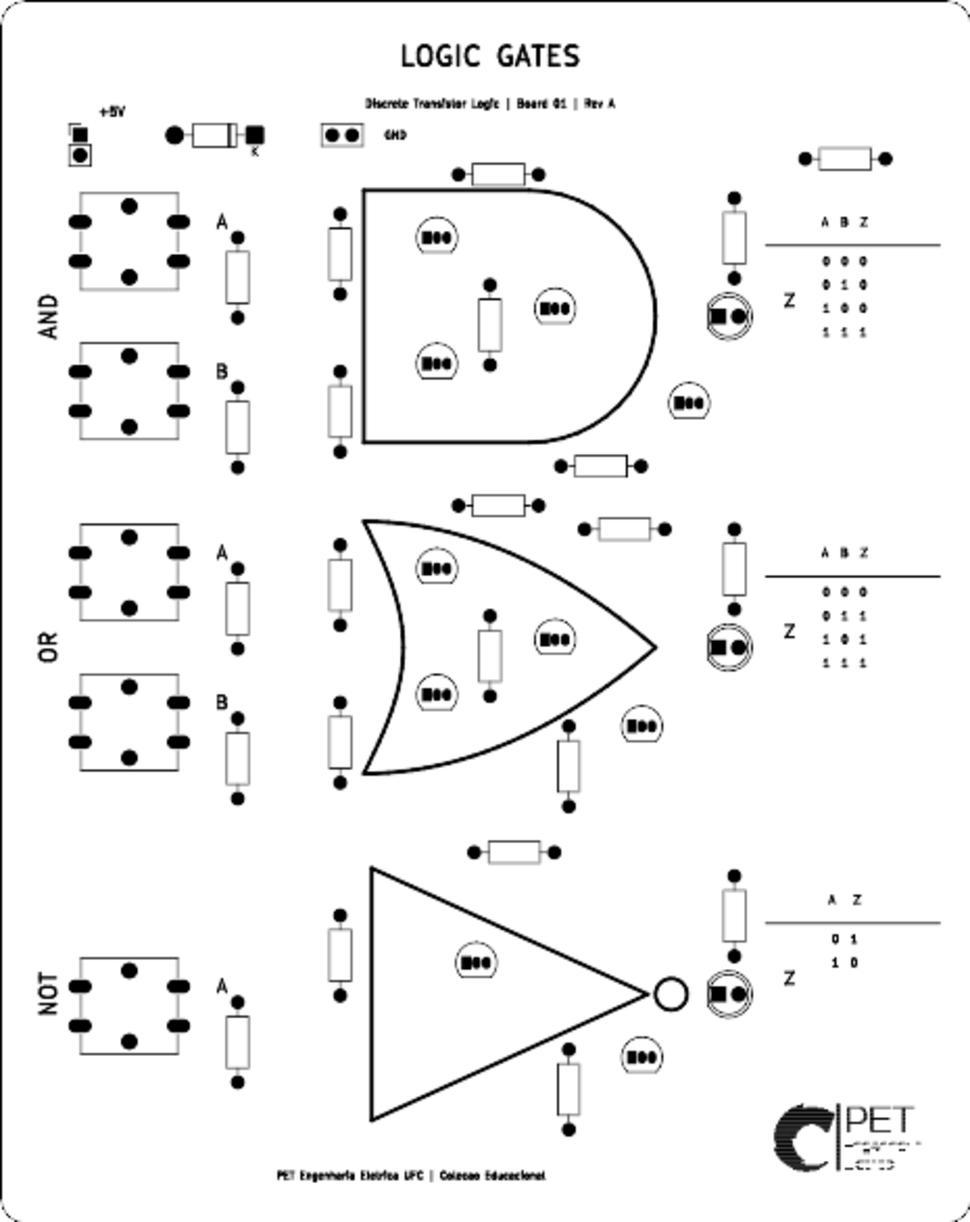
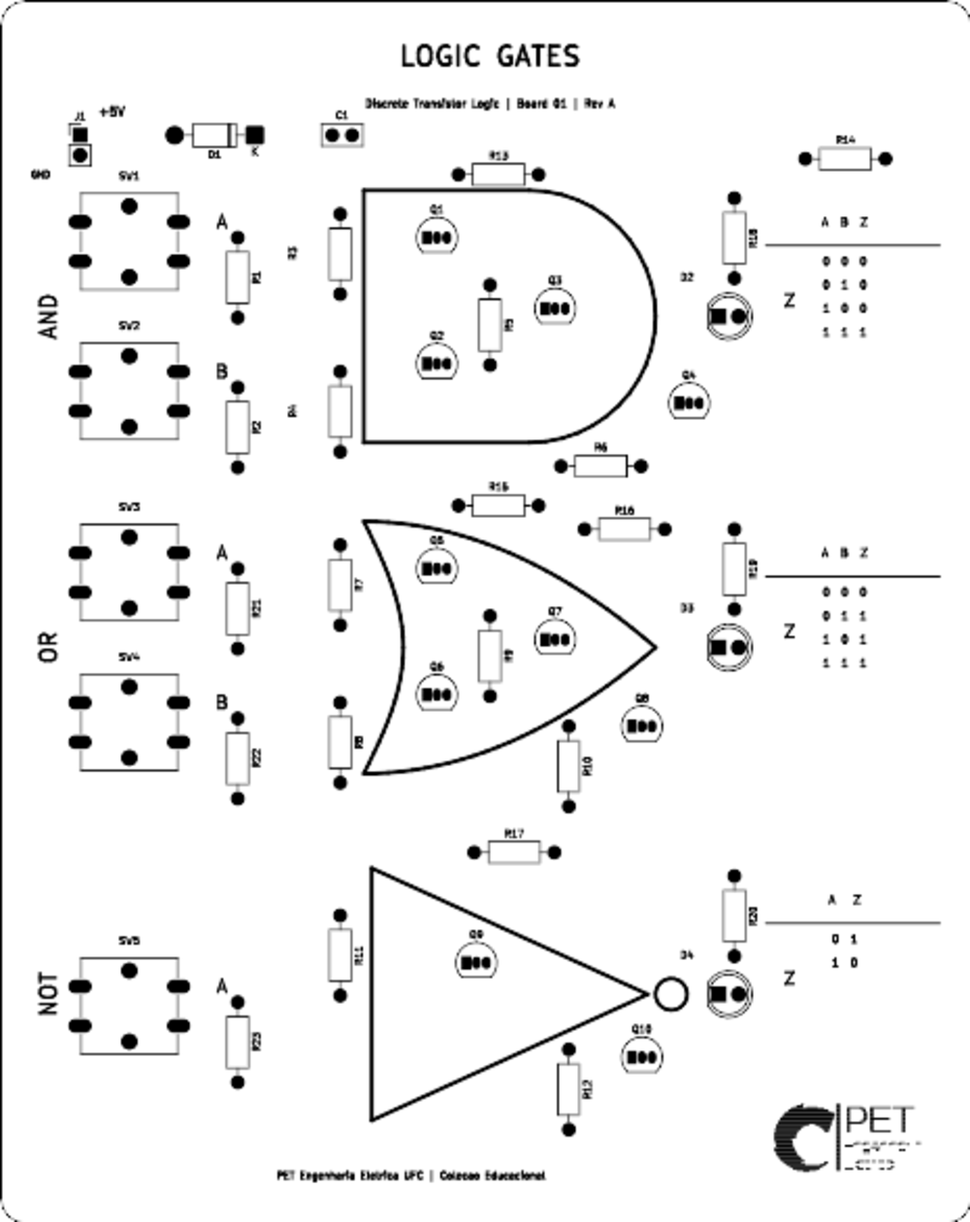
docs(pet-ufc): document assembly and update board previews

diff --git a/projects/pet-eletrica-ufc/scripts/render_board_previews.py b/projects/pet-eletrica-ufc/scripts/render_board_previews.py
@@ -11,6 +11,14 @@ run(['kicad-cli','pcb','export','svg','--mode-single','-l','F.SilkS,F.Mask,Edge.
      '--page-size-mode','2','--exclude-drawing-sheet','--black-and-white',
      '--output',str(SVG),str(OUT)],check=True)
 run(['convert','-background','white',str(SVG),'-resize','1000x',str(PNG)],check=True)
+SVG.unlink()
+back_svg=RENDERS/'01-logic-gates-back.svg'
+run(['kicad-cli','pcb','export','svg','--mode-single','-l','B.SilkS,B.Mask,Edge.Cuts',
+     '--page-size-mode','2','--exclude-drawing-sheet','--black-and-white','--mirror',
+     '--output',str(back_svg),str(OUT)],check=True)
+run(['convert','-background','white',str(back_svg),'-resize','1000x',
+     str(RENDERS/'01-logic-gates-back.png')],check=True)
+back_svg.unlink()
 source=Image.open(PNG).convert('RGBA')
 w,h=source.size
 canvas=Image.new('RGBA',(1320,930),(238,242,246,255))
@@ -74,4 +82,5 @@ for ref,(value,fp,x,y,angle,nets) in items.items():
 font=ImageFont.truetype('/usr/share/fonts/truetype/dejavu/DejaVuSans.ttf',19)
 draw.text((47,874),'Illustrative 3D preview from current KiCad PCB; component shapes are approximate.',font=font,fill=(48,57,67,255))
 canvas.convert('RGB').save(RENDERS/'01-logic-gates-3d-preview.png',quality=95)
+canvas.convert('RGB').save(RENDERS/'01-logic-gates-3d.png',quality=95)
 print('Saved 2D and illustrative 3D previews.')

diff --git a/projects/pet-eletrica-ufc/PROJECT_CONTEXT.md b/projects/pet-eletrica-ufc/PROJECT_CONTEXT.md
@@ -1,34 +1,35 @@
-# Contexto do projeto
+# Contexto do projeto PET Engenharia Elétrica UFC
 
-## Objetivo
-Criar hardware aberto, acessível e didático que permita experimentar blocos fundamentais de computadores digitais. A primeira placa agrupará AND, OR e NOT com entradas manuais, LEDs, símbolos e tabelas verdade.
+## Objetivo e estado
 
-## Situação e limites do ambiente
-- Em 2026-10-27, `git status` mostrou worktree limpo em `main`, acompanhando `origin/main`; o remoto configurado é `origin`.
-- SO: Debian GNU/Linux 13.7 Trixie, x86-64; Python 3.13.5.
-- KiCad, `kicad-cli` e `pcbnew` estão instalados e respondem na versão 9.0.2 (`kicad-cli version` e `pcbnew.GetBuildVersion()`). A interface gráfica não foi validada, pois não há `DISPLAY` nesta sessão.
-- O APT configurado oferece KiCad 9.0.2. A documentação oficial KiCad 10 confirma CLI para ERC/DRC/exportação e documentação de `pcbnew`; a versão 10 não está instalada aqui. Não misturar pacotes externos sem avaliar manutenção e compatibilidade.
-- No inventário inicial não havia fontes KiCad ou ativos visuais. Durante o trabalho apareceu `identity/logos/pet_logo.png` (272 × 182 px); o original foi preservado e copiado para `projects/pet-eletrica-ufc/assets/logos/`. Não há SVG/manual de marca. Nenhuma instalação adicional ou teste físico foi realizado.
+A placa 01 apresenta AND, OR e NOT por transistores discretos, com botões e LEDs. A revisão A foi desenvolvida no KiCad 9.0.2 instalado em 2026-10-27; KiCad 10 não estava disponível. O repositório guarda fontes editáveis, scripts determinísticos, relatórios e exports. Os resultados de ERC, DRC, paridade e simulação pertencem à revisão indicada e não representam teste físico.
 
-## Decisão de automação
-Arquitetura recomendada: híbrida. Scripts Python geram conteúdo repetitivo e mantêm parâmetros em uma fonte compacta; `kicad-cli` faz ERC/DRC, exporta fabricação e vistas; revisão gráfica humana/assistida ocorre em pontos de decisão visual. IPC/MCP é opcional para consultas ou edição interativa de uma sessão aberta, não a base do projeto.
+## Leitura da referência e geometria
 
-| Opção | Vantagens | Limitações | Tokens (estimativa, não medição) |
-|---|---|---|---|
-| Python + arquivos/CLI | Determinístico, em lote, baixo contexto e fácil de versionar | API pcbnew varia; esquemático exige geração/edição de S-expressions ou outras ferramentas | Baixo após scripts reutilizáveis |
-| Servidor MCP | Inspeção e edição contextual de KiCad aberto, chamadas semânticas | Maturidade e compatibilidade variáveis; chamadas numerosas podem aumentar contexto; não substitui revisão | Médio, depende da granularidade |
-| Agentic GUI | Bom para inspeção visual e correções pontuais | Frágil, lento, difícil reproduzir e caro em interações | Alto para tarefas repetitivas |
-| Híbrida | CLI/scripts cobrem trabalho em lote; GUI/MCP para inspeção excepcional | Exige disciplina de validação e compatibilidade explícita | Menor estimativa mantendo revisão |
+A fotografia fornecida foi preservada em `assets/reference/logic-gates-reference.png`. A placa da foto é vertical, com cantos arredondados, borda dupla fina, título no topo e três regiões separadas visualmente. Cada região tem botões à esquerda, um símbolo de porta grande no centro, LED `Z` e tabela-verdade à direita. AND ocupa o terço superior, OR o central e NOT o inferior. Os transistores aparecem dentro ou junto do símbolo, com resistores acima/abaixo. A marca PET substitui a identificação comercial da foto no rodapé da revisão.
 
-Não foi feita medição de tokens nem teste de MCP. O KiCad está disponível, mas nenhum servidor MCP foi instalado nem avaliado funcionalmente nesta sessão; não é necessário para a etapa inicial, pois CLI e Python local estão disponíveis. A CLI deve ser a interface determinística para verificações e exportações. Usar IPC/MCP apenas após selecionar uma tarefa interativa concreta e testar em cópia.
+Não há escala física na fotografia. Como aproximação, o contorno foi fixado em **123 × 155 mm**, cantos R3 mm, margens visuais de 5–8 mm. A faixa superior tem cerca de 20 mm; AND ocupa aproximadamente y=27–59 mm, OR y=69–101 mm e NOT y=113–145 mm. Os símbolos centrais se estendem aproximadamente de x=49 a 86 mm, cada tabela está em x=100–122 mm, e os botões ficam em x=13–25,5 mm. Essas dimensões são decisões de projeto, não medições da imagem.
 
-## Primeiro circuito: proposta a validar
-Topologia da placa: duas chaves momentâneas ativas em nível alto (A e B) comandam SN74HC08 (`Y_AND=A·B`), SN74HC32 (`Y_OR=A+B`) e SN74HC04 (`Y_NOT=¬A`), cada saída com LED indicador. Entradas usam pull-down de 10 kΩ; entradas de gates não usados estão ligadas a GND e suas saídas sem uso marcadas NC; cada CI tem capacitor local de 100 nF. Os três datasheets TI confirmam operação entre 2 e 6 V e opção PDIP-14 ([HC08](https://www.ti.com/lit/ds/symlink/sn74hc08.pdf), [HC32](https://www.ti.com/lit/ds/symlink/sn74hc32.pdf), [HC04](https://www.ti.com/lit/ds/symlink/sn74hc04.pdf)). LEDs Vishay TLHR5200 têm resistores série de 1,5 kΩ ±5%; com entrada de 5,0 V ±5%, corrente máxima em curto no LED é 5,25 V / 1,425 kΩ = 3,69 mA, abaixo dos 4 mA usados pela TI na caracterização do HC04 a VCC=4,5 V. A entrada é conector THT de dois pinos para fonte regulada de 5 V limitada em corrente, com 1N5819 em série para proteger contra inversão de polaridade. USB-C foi avaliado e rejeitado nesta revisão por exigir Rd separado em CC1/CC2 e proteção adicional em componente SMD difícil de soldar à mão; a opção THT atende melhor ao objetivo de montagem didática. O diodo não protege contra sobretensão sustentada nem substitui fusível.
+O PNG de marca recebido está em `assets/logos/pet_logo.png`, cópia preservada de `identity/logos/pet_logo.png`. A versão monocromática `assets/logos/pet_logo_silkscreen.svg` foi traçada a partir do PNG para F.Silkscreen. Não se recebeu SVG oficial ou manual de identidade: a forma básica da marca deriva da imagem fornecida, mas a conversão e a cor observada não constituem especificação oficial. Máscara branca e silk preta devem ser escolhidas no pedido da PCB.
 
-O esquemático KiCad foi gerado por `scripts/generate_schematic.py`. Em 2026-10-27, KiCad 9.0.2 exportou a netlist, passou ERC sem violações, e o script `scripts/check_logic_gates_netlist.py` confirmou os mapeamentos críticos. A PCB preliminar foi gerada com `scripts/generate_logic_gates_pcb.py`; seu relatório DRC registra zero violações geométricas e 54 pads ainda sem conexão. Portanto, o layout não está roteado nem fechado. O ERC cobre apenas regras interpretadas do esquemático; nenhuma validação elétrica de PCB ou teste físico foi feito.
+## Decisões elétricas
 
-## Identidade visual
-O PNG fornecido mostra a marca PET em azul índigo próximo de `#150077` sobre transparência. Esse valor foi amostrado da imagem, não confirmado por manual de marca. O PNG de origem permanece preservado; uma cópia para o projeto está em `assets/logos/`. Não há SVG nem especificação de cores oficial. A arte de serigrafia ainda não foi criada.
+| Bloco | Transistores | Função |
+|---|---|---|
+| AND | Q1–Q2 em série, Q3 inversor | NAND seguido de inversão; Q4 aciona D2 |
+| OR | Q5–Q6 em paralelo, Q7 inversor | NOR seguido de inversão; Q8 aciona D3 |
+| NOT | Q9 emissor comum | Inversão; Q10 aciona D4 |
 
-## Critério de liberação
-Não chamar o projeto de funcional/fabricável até haver projeto fonte, ERC/DRC reais, conferência elétrica independente, visualização 2D/3D, exports Gerber/drill revisados e BOM. Teste físico é etapa separada. No estado atual há um esquemático KiCad com ERC sem violações, BOM exportado e PCB preliminar sem violações geométricas, mas com 54 pads sem conexão. DRC sem violações geométricas não demonstra conectividade concluída. Não existem exports de fabricação e o teste físico não foi realizado.
+Os botões Omron B3F-4050 de 12 × 12 mm conectam cada entrada a `VCC` quando pressionados. Cinco resistores de 10 kΩ fazem pull-down. Outros dez resistores de 10 kΩ limitam corrente de base. Os cinco pull-ups dos nós NAND/NOR/saída valem **2,2 kΩ**: 10 kΩ deixaria a saída alta em aproximadamente metade de `VCC` por causa do resistor de base do próximo estágio. Com 2,2 kΩ e carga de base de 10 kΩ, o cálculo de primeira ordem dá `VH = (10k·VCC + 2,2k·VBE)/(12,2k)`. Para `VCC=4,3 V` e `VBE=0,65 V`, `VH≈3,64 V`. Com `VCC=5,05 V`, corrente máxima do pull-up saturado é `(5,05−0,2)/2,09k≈2,32 mA` considerando −5% no resistor. Corrente de base no estágio seguinte é da ordem de 0,28–0,35 mA, razão forçada inferior a 10 na condição calculada. Os limitadores de LED são 1,5 kΩ; a corrente simulada acesa é 1,84–2,17 mA na faixa de entrada analisada.
+
+O [datasheet onsemi 2N3904](https://www.onsemi.com/pdf/datasheet/2n3904-d.pdf) documenta pinos **1 E, 2 B, 3 C** e ponto de caracterização de saturação `IC=10 mA, IB=1 mA, VCE(sat)≤0,2 V`. O símbolo `Q_NPN_EBC` e o footprint `TO-92_Inline` foram escolhidos para corresponder a essa ordem. O [datasheet Vishay TLHR5200](https://www.vishay.com/docs/83011/tlhr5200.pdf) informa LED vermelho de 5 mm e `VF` típico de 2 V a 20 mA. O [datasheet Omron B3F](https://components.omron.com/us-en/datasheet_pdf/A070-E1.pdf) descreve B3F-4050 e a malha de furos de 12 × 12 mm. O [datasheet Diodes 1N5819](https://www.diodes.com/datasheet/download/1N5819.pdf) identifica o cátodo pela faixa. O 1N5819 foi posto em série com J1 para bloquear inversão de polaridade; C1=100 nF desacopla VCC. Não há proteção contra sobretensão sustentada nem fusível: alimentar somente com 5 V regulados e corrente limitada.
+
+USB-C foi considerado, mas a entrada THT de dois pinos foi escolhida pela montagem manual simples. Uma alimentação USB-C consumidora precisaria de `Rd` em CC1 e CC2 e de conector SMD. A escolha não implica que qualquer conector de dois pinos seja automaticamente à prova de erro: verificar polaridade de J1 antes de ligar.
+
+## Validação reproduzível
+
+`scripts/validate_logic_gates.sh` regenera fontes e BOM e executa ERC/DRC com KiCad 9.0.2. O resultado em 2026-10-27 foi 0 violações ERC, 0 violações DRC, 0 pads sem conexão, 0 erros de footprint e 0 problemas de paridade. `scripts/check_logic_gates_netlist.py` comparou 98 identidades de pin/pad e 44 valores/footprints da netlist exportada com a PCB e confirmou zona GND preenchida. Largura mínima de trilha é 0,35 mm, clearance mínimo de cobre é 0,20 mm, vias 0,8/0,4 mm e a placa tem duas camadas. Os pads de TO-92 padrão KiCad têm espaçamento nominal de 0,22 mm; o mínimo de 0,20 mm foi escolhido por causa desse footprint e precisa estar dentro da capacidade do fabricante selecionado.
+
+O ngspice 44.2 foi executado de pacote Debian extraído temporariamente sem instalação global. `scripts/simulate_logic_gates.py` usa modelos simplificados `BF=80`, diodo Schottky e LED aproximados. Em 4,75–5,25 V de entrada, o pior alto observado foi **3,837 V**, o pior baixo foi **0,058 V**, e o máximo de corrente nos LEDs acesos foi **2,171 mA**. Os doze pontos e tensões de coletor estão em `boards/01-logic-gates/reports/simulation.csv`. Foram adotados alto ≥3,5 V e baixo ≤0,4 V. Esses resultados não cobrem tolerâncias completas, envelhecimento, temperatura extrema, bounce dos botões ou cargas externas. Os LEDs têm drivers separados para limitar a carga nas saídas lógicas.
+
+Os Gerbers, drills, PDFs, BOM, GLB e STEP foram gerados pela CLI e estão em `boards/01-logic-gates/manufacturing/`. O modelo 3D dos botões é uma aproximação dimensional: o modelo B3F correspondente não está no pacote KiCad local; um modelo KiCad de botão de 6 mm foi escalado em X/Y para o corpo de 12 mm. A prévia PNG isométrica é ilustrativa, não captura do visualizador 3D. Não há `DISPLAY`/renderizador 3D interativo nesta sessão. A inspeção frontal e traseira foi feita pelas exportações SVG/PNG; a placa ainda precisa de revisão física do protótipo.

diff --git a/projects/pet-eletrica-ufc/boards/01-logic-gates/README.md b/projects/pet-eletrica-ufc/boards/01-logic-gates/README.md
@@ -1,28 +1,62 @@
-# Placa 01: Portas lógicas
+# Placa 01 — Portas lógicas com transistores discretos
 
-Status: esquemático KiCad gerado em `01-logic-gates.kicad_sch`; ERC executado no KiCad 9.0.2 com zero violações. A lista de materiais em [`BOM.csv`](BOM.csv) foi exportada do esquemático. Há um layout preliminar KiCad com footprints e contorno; o DRC geométrico reporta zero violações e 54 pads sem conexão. Roteamento, revisão física, imagens 3D e fabricação continuam pendentes.
+Placa didática do PET Engenharia Elétrica UFC com portas **AND, OR e NOT** construídas somente com transistores 2N3904. Cada porta tem entradas por botões independentes, saída elétrica acessível nos pads do circuito e LED indicador. O projeto nativo KiCad é editável; as imagens abaixo mostram a revisão A.
 
-## Função planejada
+![Vista frontal da PCB](renders/01-logic-gates-2d.png)
 
-Dois botões momentâneos produzem sinais ativos em nível alto `A` e `B`. Três saídas independentes são exibidas por LEDs:
+[Vista traseira](renders/01-logic-gates-back.png) · [Prévia 3D ilustrativa](renders/01-logic-gates-3d-preview.png) · [Fotografia de referência](../../assets/reference/logic-gates-reference.png) · [Esquemático PDF](manufacturing/schematic.pdf)
 
-| Saída | Função | Entradas |
-|---|---|---|
-| `Y_AND` | AND | `A`, `B` |
-| `Y_OR` | OR | `A`, `B` |
-| `Y_NOT` | NOT | `A` |
+## Estado de engenharia
 
-Cada entrada terá resistor de pull-down para garantir nível baixo com o botão solto. A implementação preliminar usa SN74HC08, SN74HC32 e SN74HC04 em DIP-14, com as entradas dos gates não utilizados fixadas em GND e capacitor cerâmico de desacoplamento junto a cada CI. A entrada de alimentação escolhida é um conector THT de dois pinos para 5 V regulados, seguido por um diodo Schottky 1N5819 em série para evitar danos por inversão de polaridade. Exigir fonte regulada com limitação de corrente; a placa não terá proteção para sobretensão sustentada. Corrente dos LEDs será limitada individualmente e mantida abaixo de 4 mA por saída.
+- KiCad 9.0.2: ERC **0 violações**, DRC **0 violações**, **0 pads sem conexão** e **0 problemas de paridade esquemático/PCB**. Relatórios em `reports/` e `manufacturing/`.
+- Comparação independente da netlist com a PCB: **98 identidades de pino/pad e 44 valores/footprints conferidos**, incluindo polaridade do diodo e LEDs e ordem E-B-C do 2N3904.
+- ngspice 44.2: **12 pontos DC** (quatro combinações de botões em 4,75, 5,00 e 5,25 V) passaram os limites adotados. O modelo de transistor/LED é simplificado e não substitui medições de protótipo.
+- **Nenhuma placa física foi fabricada, montada ou medida.** A revisão A é candidata a protótipo. Conferir componentes reais e prévia do fabricante antes de encomendar.
 
-Os três componentes lógicos aceitam 2–6 V e possuem encapsulamento PDIP-14 segundo as folhas de dados da [TI para SN74HC08](https://www.ti.com/lit/ds/symlink/sn74hc08.pdf), [SN74HC32](https://www.ti.com/lit/ds/symlink/sn74hc32.pdf) e [SN74HC04](https://www.ti.com/lit/ds/symlink/sn74hc04.pdf). A folha do HC04 especifica níveis de saída a 4 mA com VCC=4,5 V. Cada LED TLHR5200 tem resistor de 1,5 kΩ ±5%; com entrada limitada a 5,25 V no pior caso, até um LED em curto ficaria limitado a 5,25 V / 1,425 kΩ = 3,69 mA, abaixo dos 4 mA usados na caracterização do HC04. Em uso normal, a queda direta do LED reduz ainda mais essa corrente. A [folha TLHR5200 da Vishay](https://www.vishay.com/docs/83011/tlhr5200.pdf) especifica LED vermelho de 5 mm, com Vf típico de 2 V a 20 mA; 1,5 kΩ dá corrente típica estimada de até 2,2 mA sem considerar a queda no diodo de entrada.
+## Uso e alimentação
 
-A alternativa USB-C foi avaliada: um sink reversível requer resistores `Rd` independentes em CC1 e CC2, e a proteção de sobretensão exigiria componente SMD de soldagem menos acessível; a placa didática prioriza entrada THT polarizada. O [USB-IF Type-C Specification, Release 2.0](https://www.usb.org/sites/default/files/USB%20Type-C%20Spec%20R2.0%20-%20August%202019.pdf) descreve esses requisitos de CC e também exige que o sink respeite a corrente anunciada pela fonte. As chaves são Omron B3F-4050 em footprints B3F THT; o diodo 1N5819 THT protege contra polaridade invertida. A entrada deve ser 5,0 V regulada (4,75–5,25 V) e limitada em corrente; essa placa não protege de sobretensão sustentada.
+Conecte **5 V regulados** em `J1`, pino 1 `+5V` e pino 2 `GND`, com limite de corrente de aproximadamente 100 mA na primeira energização. `D1` (1N5819) está em série para bloquear polaridade invertida; `C1` (100 nF) desacopla a alimentação após o diodo. O circuito não tolera sobretensão sustentada. A entrada de dois pinos foi escolhida pela montagem THT simples e pelo custo; USB-C exigiria receptáculo SMD e resistores `Rd` em CC1 e CC2. Uma fonte USB de 5 V pode ser usada com adaptador polarizado verificado, sem depender de fonte com tensão incomum.
 
-## Pendências de engenharia
+Cada botão fecha a respectiva entrada em `VCC`. Solto, um resistor de 10 kΩ a leva a GND. `SW1/SW2` comandam AND, `SW3/SW4` comandam OR e `SW5` comanda NOT. Os LEDs acendem quando a função vale 1.
 
-- Confirmar disponibilidade local dos part numbers especificados e fechar a versão final de passivos e conector THT.
-- A alimentação aceita somente 5 V regulados de fonte com limitação de corrente. O diodo em série protege inversão de polaridade; ele não substitui fusível nem proteção contra sobretensão sustentada.
-- Revisar conectividade e footprints na PCB, definir contorno e roteamento, executar DRC, produzir renderizações 2D/3D e revisar exports Gerber/drill.
-- Os relatórios estão em [`reports/ERC.rpt`](reports/ERC.rpt) e [`reports/DRC.rpt`](reports/DRC.rpt). O ERC confirma as regras elétricas interpretadas do esquemático. O DRC sem violações geométricas não elimina os 54 pads ainda sem conexão. Não há roteamento concluído, Gerbers, arquivos de furação ou teste físico.
+| A | B | AND | OR | NOT A |
+|---:|---:|---:|---:|---:|
+| 0 | 0 | 0 | 0 | 1 |
+| 0 | 1 | 0 | 1 | 1 |
+| 1 | 0 | 0 | 1 | 0 |
+| 1 | 1 | 1 | 1 | 0 |
 
-Ver decisões elétricas e limites gerais em [`../../PROJECT_CONTEXT.md`](../../PROJECT_CONTEXT.md).
+Os sinais `A_AND`, `B_AND`, `A_OR`, `B_OR` e `A_NOT` são independentes; a tabela combina valores iguais por conveniência didática. Soltar todos os botões equivale à primeira linha.
+
+## Circuito e dimensionamento
+
+`Q1/Q2` em série formam `N_AND`, invertido por `Q3` em `Y_AND`. `Q5/Q6` em paralelo formam `N_OR`, invertido por `Q7` em `Y_OR`. `Q9` é o inversor de emissor comum para `Y_NOT`. `Q4`, `Q8` e `Q10` acionam os LEDs sem colocar sua corrente diretamente nas saídas lógicas. `R13`–`R17` de 2,2 kΩ elevam as saídas; `R3`–`R12` de 10 kΩ limitam corrente de base; `R18`–`R20` de 1,5 kΩ limitam LED. A saída alta carregada pelo resistor de base seguinte é cerca de 4,04 V a 5,00 V de entrada na simulação; a baixa é cerca de 0,05–0,06 V. Os limites didáticos definidos são **baixo ≤0,4 V** e **alto ≥3,5 V**, válidos somente para esta topologia e carga prevista.
+
+A [folha do 2N3904 da onsemi](https://www.onsemi.com/pdf/datasheet/2n3904-d.pdf) especifica a ordem **1 emissor, 2 base, 3 coletor** e `VCE(sat)` máximo de 0,2 V em `IC=10 mA, IB=1 mA`. Aqui o coletor dos inversores recebe no máximo cerca de 2,4 mA e a corrente de base calculada supera aproximadamente 0,28 mA no pior caso analisado. A razão forçada fica abaixo de 10. Esse cálculo é uma margem de projeto, não uma garantia de pior caso para todos os lotes e temperaturas. A [folha do LED TLHR5200](https://www.vishay.com/docs/83011/tlhr5200.pdf) informa `VF` típico de 2 V a 20 mA; a simulação usa um modelo de LED aproximado e indica 1,84–2,17 mA quando aceso. Em curto no LED, o resistor de 1,5 kΩ ainda limita a corrente nominal a menos de 3,7 mA com 5,25 V de entrada e tolerância de −5% do resistor.
+
+A correspondência física `Q_NPN_EBC` ↔ `TO-92_Inline` foi conferida explicitamente. Ver mais hipóteses e cálculos em [PROJECT_CONTEXT.md](../../PROJECT_CONTEXT.md).
+
+## Geometria e serigrafia
+
+Contorno de aproximadamente **123 × 155 mm**, duas camadas, cantos de raio 3 mm. A fotografia não permite extrair medidas precisas; esta revisão preserva sua proporção vertical, os cinco botões à esquerda, os símbolos grandes no centro e LEDs/tabelas à direita. A serigrafia inclui a marca PET derivada do PNG fornecido, título, função dos blocos e revisão. O SVG original de identidade não foi fornecido; o traçado monocromático é uma adaptação para serigrafia, não uma reconstrução de manual de marca.
+
+Solicitar ao fabricante **máscara branca e serigrafia preta**: os Gerbers não codificam cores. O acabamento e contraste precisam ser confirmados na prévia do fabricante. Não há furos de fixação nesta revisão para preservar área útil e fidelidade à referência.
+
+## Montagem e teste com multímetro
+
+1. Separe os componentes conforme [BOM.csv](manufacturing/BOM.csv). Confirme a pinagem **E-B-C** do lote de 2N3904 escolhido e o corpo de 12 × 12 mm dos botões Omron B3F-4050.
+2. Solde resistores, diodo, capacitor, transistores, botões, LEDs e conector nessa ordem. Alinhe a faixa de `D1` ao cátodo e o lado chato/cátodo dos LEDs ao pad 1. Não confunda os diodos `D1` e `D2`–`D4`.
+3. Com a placa desligada, meça continuidade de GND e ausência de curto entre `+5V` e GND. Inspecione pontes de solda, especialmente nos três pads próximos de cada TO-92.
+4. Energize com 5,0 V e limite inicial de aproximadamente 100 mA. Meça `VCC` depois de `D1`, depois as entradas soltas (próximas de 0 V) e pressionadas (próximas de `VCC`).
+5. Para cada bloco, pressione as combinações da tabela. Meça `Y_AND`, `Y_OR`, `Y_NOT` e compare com ≤0,4 V / ≥3,5 V; confira se o LED correspondente segue a saída. Um LED apagado não substitui a medida do nó lógico.
+6. Desligue imediatamente se houver aquecimento, consumo inesperado ou saída fora da faixa. Anote tensão de alimentação, tensões de saída e corrente antes de concluir o ensaio físico.
+
+## Arquivos e reprodução
+
+- `01-logic-gates.kicad_sch`, `.kicad_pcb`, `.kicad_pro`: fontes nativas.
+- `../../scripts/validate_logic_gates.sh`: gera as fontes, executa ERC, DRC, paridade, comparação da netlist e BOM.
+- `../../scripts/simulate_logic_gates.py`: DC no ngspice com modelos simplificados; resultados em `reports/simulation.csv`.
+- `../../scripts/render_board_previews.py`: usa KiCad CLI, ImageMagick `convert` e Pillow para gerar vistas 2D diretamente da PCB e uma prévia isométrica **ilustrativa**. Os modelos de componentes desenhados nesta imagem são aproximados.
+- `../../scripts/export_logic_gates.sh`: repete validação e exporta [manufacturing/](manufacturing/). O modelo STEP/GLB usa o modelo 3D KiCad disponível para cada footprint; os botões usam um modelo de 6 mm escalado para representar o corpo 12 × 12 mm, portanto a geometria 3D deles é apenas aproximada.
+
+O guia de aula e exercícios está em [logic-gates-lab.md](../../docs/logic-gates-lab.md). As pendências da revisão estão em [manufacturing/README.md](manufacturing/README.md).

diff --git a/projects/pet-eletrica-ufc/docs/logic-gates-lab.md b/projects/pet-eletrica-ufc/docs/logic-gates-lab.md
@@ -1,23 +1,65 @@
-# Experimento: portas AND, OR e NOT
+# Aula prática — portas lógicas com transistores discretos
 
 ## Objetivo
-Observar como níveis lógicos nas entradas determinam a saída de portas AND, OR e NOT.
 
-## Tabelas-verdade
+Relacionar corrente de base e saturação dos BJTs aos estados das portas AND, OR e NOT. Cada porta tem botões próprios. A placa usa 5 V regulados e sinaliza cada saída com LED vermelho.
 
-AND: 00→0, 01→0, 10→0, 11→1.  
-OR: 00→0, 01→1, 10→1, 11→1.  
-NOT: 0→1, 1→0.
+## Antes de energizar
 
-## Entradas e saídas da placa
-Os botões A e B são momentâneos e ativos em nível alto. Soltar os botões deve produzir nível lógico 0 por meio dos resistores de pull-down. As saídas planejadas são `Y_AND = A·B`, `Y_OR = A+B` e `Y_NOT = ¬A`, cada uma com LED indicador. O botão B não altera `Y_NOT`.
+Consulte o [esquemático](../boards/01-logic-gates/manufacturing/schematic.pdf) e a [lista de materiais](../boards/01-logic-gates/manufacturing/BOM.csv). Identifique `J1` pino 1 `+5V`, pino 2 `GND`; diodo `D1` (faixa no cátodo); LEDs `D2`–`D4` (pad 1 cátodo); e transistores `Q1`–`Q10` (pinos 1 emissor, 2 base, 3 coletor para o 2N3904 escolhido). Verifique as folhas do lote adquirido antes da soldagem.
 
-## Procedimento previsto
-Com a placa desligada, inspecione polaridades e conexões. Conecte uma fonte regulada e limitada em corrente de 5 V à entrada identificada, respeitando a polaridade. Aplique cada combinação de entradas e registre os LEDs. Compare com as tabelas e discuta entradas flutuantes e inversão lógica. Este procedimento só deve ser executado após revisão do projeto e montagem física.
+Meça continuidade em GND e ausência de curto entre alimentação e retorno. Use fonte de 5 V regulados com limite inicial de corrente em torno de 100 mA. Se o limite atuar, desligue e procure erro de montagem. A placa não suporta sobretensão sustentada.
 
-Este roteiro é preliminar: a placa ainda não foi desenhada, validada, fabricada ou montada.
+## Princípio
+
+Um botão solto deixa a entrada em 0 por pull-down de 10 kΩ. Ao pressioná-lo, ela vai a `VCC`. Q1/Q2 fazem NAND, Q5/Q6 fazem NOR; Q3 e Q7 invertem esses nós para obter AND e OR. Q9 realiza NOT diretamente. Q4, Q8 e Q10 acionam LEDs sem carregar diretamente as saídas de lógica. O valor 2,2 kΩ dos pull-ups mantém alto mesmo com a corrente de base do próximo estágio.
+
+## Tabelas esperadas
+
+| A_AND | B_AND | Y_AND | LED D2 |
+|---:|---:|---:|---|
+| 0 | 0 | 0 | apagado |
+| 0 | 1 | 0 | apagado |
+| 1 | 0 | 0 | apagado |
+| 1 | 1 | 1 | aceso |
+
+| A_OR | B_OR | Y_OR | LED D3 |
+|---:|---:|---:|---|
+| 0 | 0 | 0 | apagado |
+| 0 | 1 | 1 | aceso |
+| 1 | 0 | 1 | aceso |
+| 1 | 1 | 1 | aceso |
+
+| A_NOT | Y_NOT | LED D4 |
+|---:|---:|---|
+| 0 | 1 | aceso |
+| 1 | 0 | apagado |
+
+Na simulação simplificada, para 4,75–5,25 V em J1, as saídas baixas ficaram até 0,058 V e as altas a partir de 3,837 V. Use como critério didático medido **baixo ≤0,4 V** e **alto ≥3,5 V**. Os valores de simulação não são medições de uma placa física.
+
+## Procedimento
+
+1. Com todas as entradas soltas, meça a tensão em `VCC` após D1 e em cada entrada. As entradas devem estar próximas de 0 V; AND/OR apagados e NOT aceso.
+2. Na região AND, pressione `SW1` e `SW2` em todas as quatro combinações. Em cada uma, meça `Y_AND` no **pad 2 de R14** com o multímetro e anote o LED D2. Solte os botões entre medições.
+3. Repita com `SW3` e `SW4` para OR; meça `Y_OR` no **pad 2 de R16** e observe D3.
+4. Meça `Y_NOT` no **pad 2 de R17** e observe D4 com `SW5` solto e pressionado. Confirme que os botões de outras regiões não alteram `Y_NOT`. Use ponta fina para não unir dois pads vizinhos.
+5. Se houver discrepância, registre a tensão nos nós `N_AND` ou `N_OR`, as entradas, a saída e o estado do LED. Desligue a fonte antes de tocar nas soldas.
+
+Modelo de registro:
+
+| VIN (V) | Porta | A (V) | B (V) | Z (V) | LED | Esperado | Observação |
+|---:|---|---:|---:|---:|---|---:|---|
+| | AND | | | | | | |
+| | OR | | | | | | |
+| | NOT | | — | | | | |
 
 ## Exercícios
-1. Explique por que uma entrada não pode ficar desconectada.
-2. Construa a tabela de uma NAND a partir de AND e NOT.
-3. Proponha uma combinação de portas que implemente XOR.
+
+1. Explique por que os resistores de entrada evitam estados indefinidos.
+2. Derive a tabela NAND de Q1/Q2 e mostre por que Q3 produz AND.
+3. Compare NOR e OR para as quatro combinações.
+4. Calcule a corrente aproximada de um pull-up de 2,2 kΩ quando seu transistor está saturado.
+5. Explique por que o LED possui transistor próprio e o que ocorreria se fosse ligado diretamente ao nó lógico com um resistor pequeno.
+6. Proponha um circuito para reduzir o bounce do botão se a placa fosse usada como entrada de um contador.
+
+**Estado do laboratório:** ensaio físico ainda não realizado. ERC, DRC e simulação DC estão registrados, mas os valores de medição devem ser preenchidos após montagem do protótipo.

diff --git a/projects/pet-eletrica-ufc/identity/README.md b/projects/pet-eletrica-ufc/identity/README.md
@@ -1,7 +1,5 @@
 # Identidade PET
 
-# Identidade PET
+O PNG transparente fornecido para o projeto está preservado em [`../assets/logos/pet_logo.png`](../assets/logos/pet_logo.png) (272 × 182 px). A cor índigo próxima de `#150077` é uma amostra da imagem, não uma paleta institucional confirmada por manual de marca.
 
-O worktree contém um logotipo raster fornecido como `identity/logos/pet_logo.png`; uma cópia de trabalho está em [`../assets/logos/pet_logo.png`](../assets/logos/pet_logo.png). O arquivo é PNG transparente, 272 × 182 px. A cor dominante observada na marca é azul índigo próximo de `#150077`; considerar esse valor uma amostra do arquivo, não uma paleta oficial especificada. Não há SVG nem manual de marca fornecido.
-
-Para serigrafia PCB, preservar proporções e usar versão vetorial monocromática derivada somente após aprovação visual. A representação em serigrafia não reproduz cor; reservar o azul para identidade documental/visual da placa. Não modificar nem substituir o PNG de origem.
+A adaptação monocromática [`../assets/logos/pet_logo_silkscreen.svg`](../assets/logos/pet_logo_silkscreen.svg) foi traçada do PNG para a serigrafia da placa 01. Ela mantém a proporção da área visível e foi verificada na vista frontal exportada, mas **não é um SVG oficial**. Não foi fornecido manual de marca nem um original vetorial. Preserve o PNG de origem ao revisar a arte; a serigrafia depende da cor escolhida pelo fabricante, e os Gerbers não especificam branco/preto.

diff --git a/docs/automation.md b/docs/automation.md
@@ -14,7 +14,7 @@ MCP/IPC não é dependência inicial: a CLI e `pcbnew` estão disponíveis local
 - `kicad-cli version`: 9.0.2.
 - `pcbnew.GetBuildVersion()`: 9.0.2+dfsg-1.
 - O pacote Debian configurado oferece 9.0.2; não se misturaram repositórios ou pacotes externos para instalar KiCad 10.
-- `kicad-cli --help` confirmou os grupos `sch`, `pcb`, `fp`, `sym` e `jobset`; `sch` lista `erc`/`export`, `pcb` lista `drc`/`export`/`render`. O esquemático da placa 01 foi exportado como netlist e passou ERC com zero violações; ainda não existe PCB para validar por DRC.
+- `kicad-cli --help` confirmou os grupos `sch`, `pcb`, `fp`, `sym` e `jobset`; `sch` lista `erc`/`export` e `pcb` lista `drc`/`export`. A revisão A da placa 01, agora com transistores discretos, passou ERC, DRC e paridade esquemático/PCB sem violações nem pads abertos. `projects/pet-eletrica-ufc/scripts/validate_logic_gates.sh` reproduz geração, netlist, ERC, DRC e BOM; `export_logic_gates.sh` produz os arquivos de fabricação. O teste físico ainda está pendente.
 - A invocação da interface `kicad --version` sem `DISPLAY` falhou ao inicializar GTK e não é considerada verificação da GUI.
 
 Repetir o levantamento com `shared/scripts/environment_report.sh`. As versões podem mudar; registrar novas observações com data e saída reproduzível.

diff --git a/projects/pet-eletrica-ufc/README.md b/projects/pet-eletrica-ufc/README.md
@@ -4,10 +4,10 @@ Coleção aberta de placas para estudar blocos fundamentais de computadores digi
 
 ## Estrutura
 
-- `boards/01-logic-gates/`: primeira placa planejada (AND, OR e NOT).
+- `boards/01-logic-gates/`: placa 01 com AND, OR e NOT por transistores discretos.
 - `docs/`: roteiros didáticos e notas específicas.
 - `assets/logos/`: imagem PET fornecida para identidade visual.
 - `identity/`: ativos e padrões visuais do projeto.
 - `libraries/`, `scripts/`, `templates/`: recursos locais reutilizáveis.
 
-O estado de engenharia, decisões elétricas e limitações estão em [`PROJECT_CONTEXT.md`](PROJECT_CONTEXT.md). As regras locais estão em [`AGENTS.md`](AGENTS.md). O esquemático da placa 01 passou ERC. Existe PCB preliminar; o DRC aponta 54 pads sem rota, e os arquivos de fabricação ainda não foram produzidos.
+O [projeto da placa 01](boards/01-logic-gates/README.md) reúne fontes KiCad, imagens, BOM, simulação e arquivos de fabricação. A revisão A passou ERC/DRC e paridade com zero violações; um protótipo físico ainda não foi fabricado ou medido. Decisões elétricas e limites estão em [`PROJECT_CONTEXT.md`](PROJECT_CONTEXT.md); as regras locais estão em [`AGENTS.md`](AGENTS.md).
